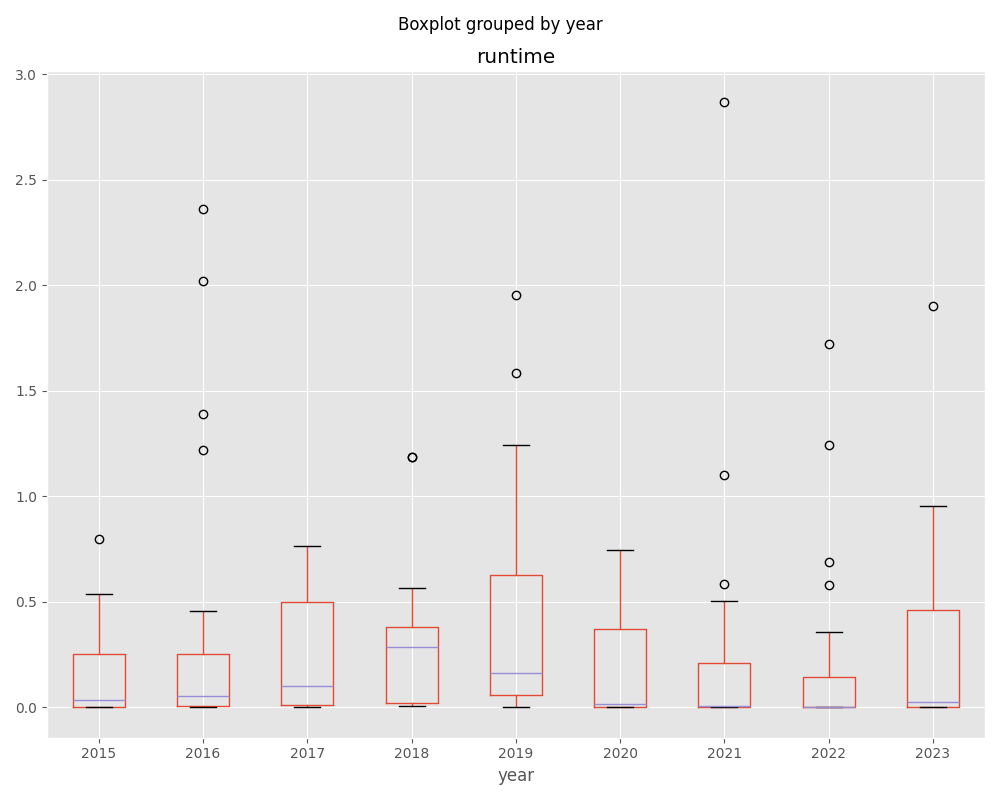
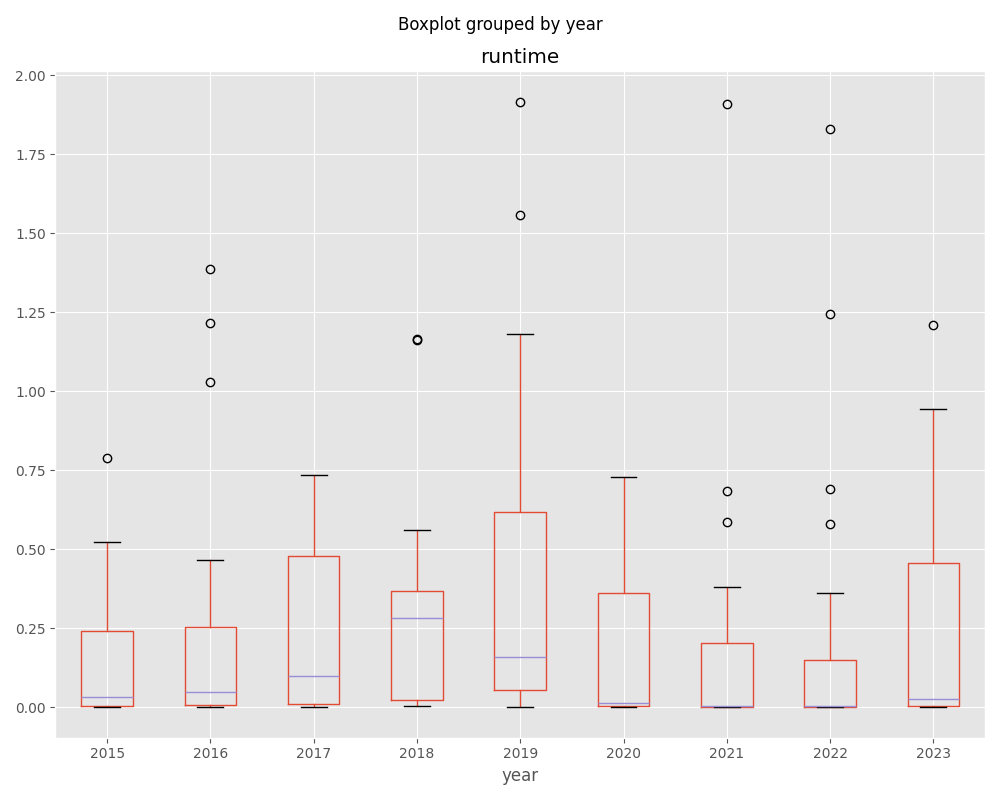
Update graphs and mark achievement

diff --git a/README.md b/README.md
@@ -27,6 +27,8 @@ solutions from `Python` into something like `Rust` or `Go`.
 
 There is a section at the bottom of this doc tracking any remaining outliers.
 
+Currently no solution takes longer than 2 seconds to run, woo!
+
 # Input Data
 
 The input for each puzzle is in a separate private Github repo to comply with
